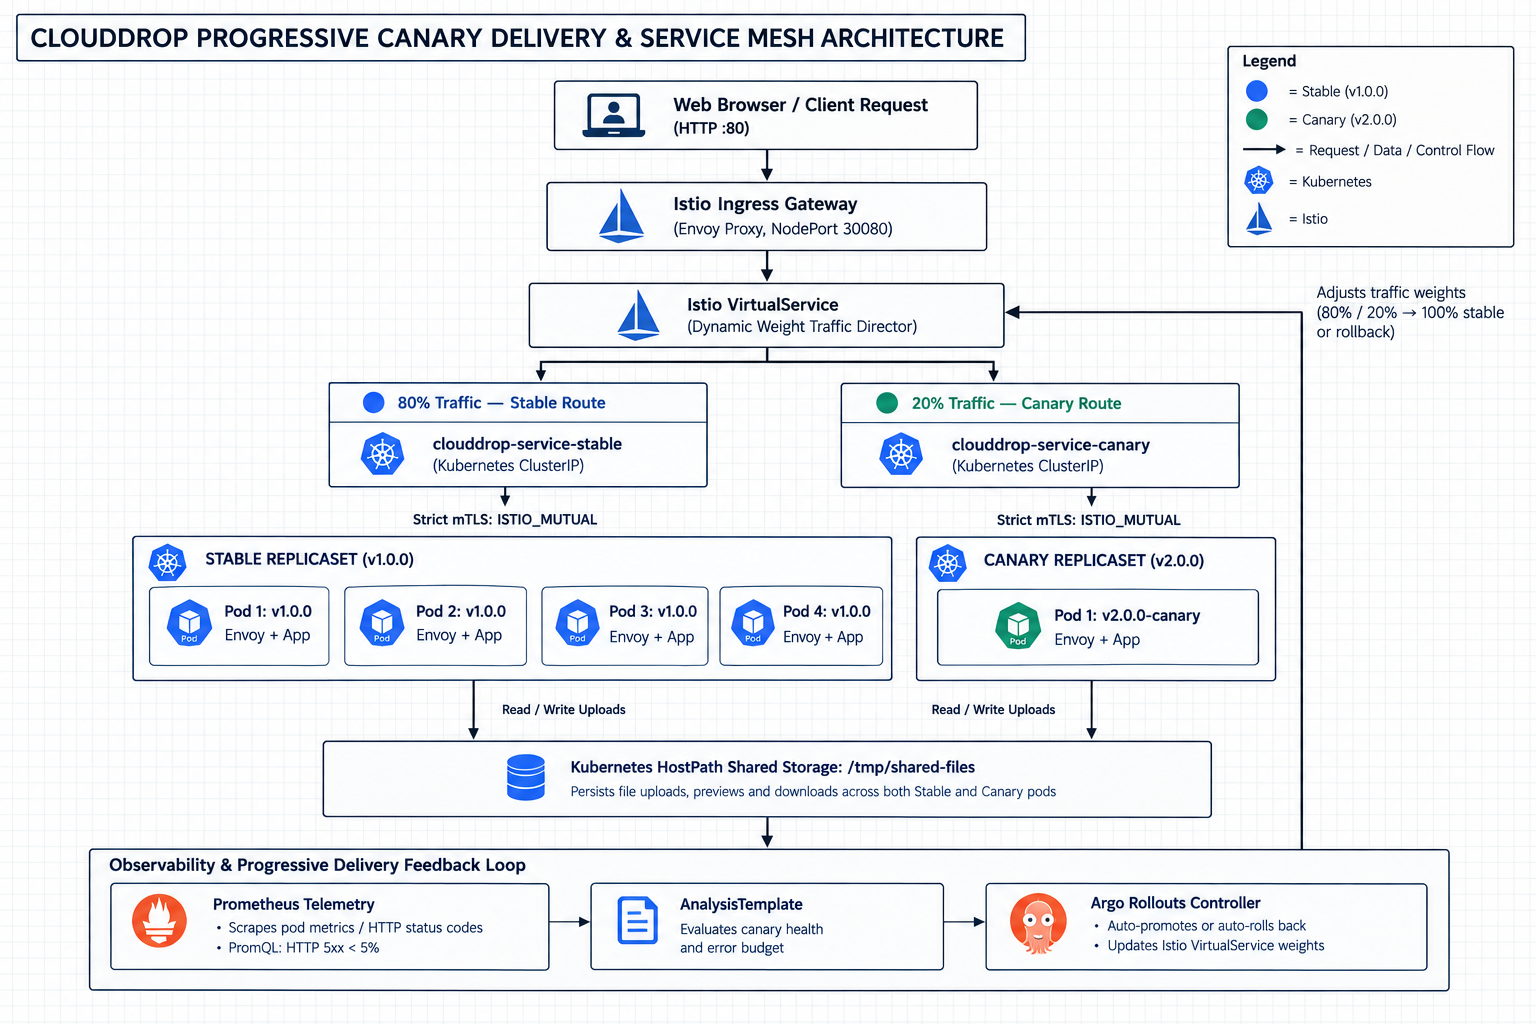
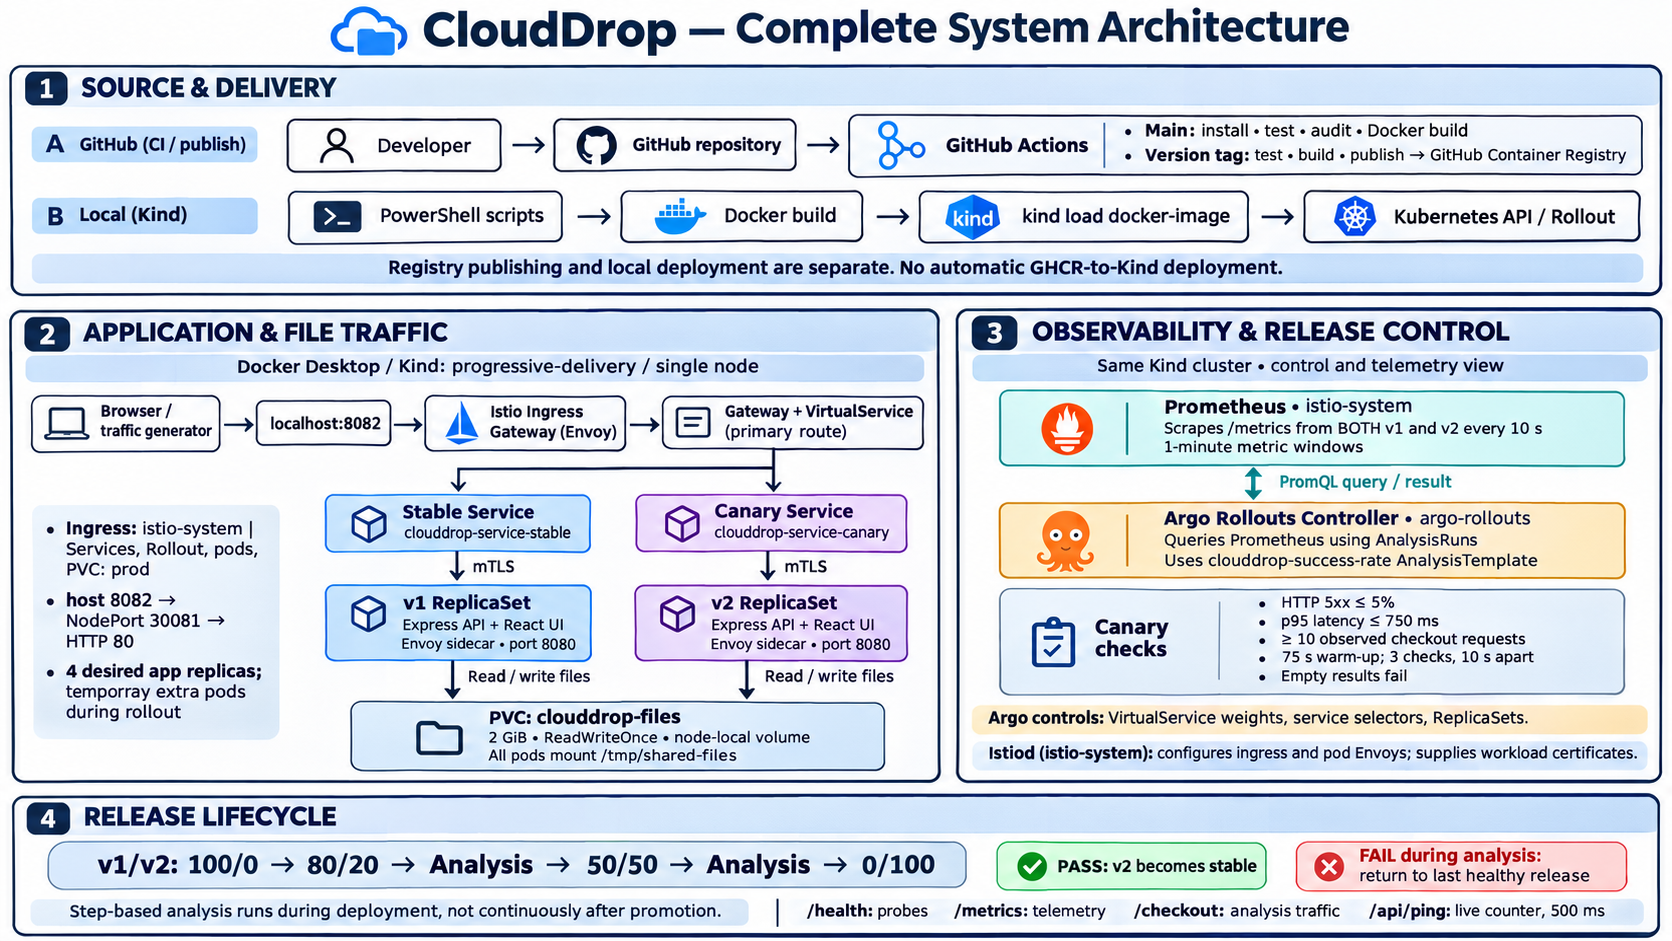
Update CloudDrop architecture diagram and implementation guide

diff --git a/docs/architecture.md b/docs/architecture.md
@@ -1,53 +1,104 @@
-# Progressive Delivery & Zero-Trust Service Mesh Architecture
+# CloudDrop System Architecture
 
-## 1. Executive Architecture Summary
+CloudDrop is a file-sharing application running in a single-node Kind cluster
+inside Docker Desktop. It combines a React interface, a Node.js/Express API,
+Istio traffic routing, Argo Rollouts, Prometheus analysis, and shared file storage.
 
-This project implements enterprise-grade **Progressive Canary Delivery** combined with **Zero-Trust Service Mesh Networking** on Kubernetes. It eliminates the blast radius of degraded software releases by replacing brittle standard `RollingUpdate` deployments with automated, telemetry-driven traffic gating and instantaneous rollbacks.
+![CloudDrop system architecture](images/architecture.png)
 
-![CloudDrop Progressive Canary Delivery & Service Mesh Architecture](images/architecture.png)
+## Request and file flow
 
-```
-                    [ Incoming User Traffic (Internet) ]
-                                    │
-                                    ▼
-                [ Istio Ingress Gateway (Envoy Proxy: Port 80) ]
-                                    │
-         ┌──────────────────────────┴──────────────────────────┐
-         │                                                     │
-         ▼ (Dynamic Weight: 80%)                               ▼ (Dynamic Weight: 20%)
-[ clouddrop-service-stable (v1.0.0) ]                   [ clouddrop-service-canary (v2.0.0) ]
-  • Envoy Sidecar (mTLS)                                • Envoy Sidecar (mTLS)
-  • 4 Pods Serving Prod Traffic                         • 1 Canary Pod under test
-         │                                                     │
-         └──────────────────────────┬──────────────────────────┘
-                                    ▼
-                      [ Prometheus Telemetry Engine ]
-                       • Scrapes /metrics every 5s
-                       • PromQL: HTTP 5xx error rate
-                                    │
-                                    ▼
-                     [ Argo Rollouts Controller ]
-                      • Evaluates AnalysisTemplate
-                      • IF Error Rate <= 5% -> Promote to 50% -> 100%
-                      • IF Error Rate > 5%  -> INSTANT ROLLBACK (<15s)
-```
+1. The browser opens `http://localhost:8082/`. Kind maps host port `8082` to
+   NodePort `30081`, which exposes the Istio ingress service on HTTP port `80`.
+2. The `clouddrop-gateway` and `clouddrop-virtualservice` resources in `prod`
+   configure ingress routing. The VirtualService splits requests between
+   `clouddrop-service-stable` and `clouddrop-service-canary` using Argo-managed
+   weights. These are configuration resources, not extra proxy processes.
+3. Each application pod has an Express container on port `8080` and an Envoy
+   sidecar. Express serves the React page and file APIs from the same image.
+   Istiod supplies proxy configuration and workload certificates. DestinationRules
+   configure `ISTIO_MUTUAL` for both services; this alone does not enforce a
+   cluster-wide strict inbound mTLS policy.
+4. Both releases mount the `clouddrop-files` PVC at `/tmp/shared-files`. It
+   requests `2Gi` with `ReadWriteOnce` access. Multiple replicas can share it
+   on the same Kind node. Uploads use a local persistent volume. This is a
+   local demonstration, not distributed storage for multiple nodes.
 
----
+## Release control and observability
 
-## 2. Core Architectural Pillars
+The controller in `argo-rollouts` watches the Rollout in `prod`, manages
+ReplicaSets and service selectors, creates AnalysisRuns, and changes the
+Istio VirtualService weights. Four application replicas are desired; extra
+pods can coexist temporarily during a canary release.
 
-### A. Dynamic Layer-7 Traffic Management (Istio Service Mesh)
-* Standard Kubernetes `Service` operates at Layer 4 (TCP) using simple kube-proxy round-robin, meaning traffic distribution cannot be controlled at precise percentages.
-* Istio utilizes **Envoy proxies** running as sidecars alongside every pod (`istio-injection=enabled`).
-* The **Istio VirtualService** splits traffic at exact granular weights (`weight: 80` vs `weight: 20`).
-* Argo Rollouts integrates directly with the VirtualService API, dynamically rewriting the routing weights without pod restarts or configuration downtime.
+Prometheus runs in `istio-system` and scrapes annotated pods every **10 seconds**.
+With Istio injection, the sidecar can expose a merged scrape endpoint containing
+the app metrics. HTTP telemetry comes from the application, not the file volume.
+Argo queries `prometheus-server.istio-system.svc.cluster.local:80`.
 
-### B. Mutual TLS (mTLS) Zero-Trust Security
-* Every microservice connection is secured with automatic **ISTIO_MUTUAL** TLS encryption via `DestinationRule`.
-* Certificates are provisioned, rotated, and managed dynamically by `istiod` using SPIFFE cryptographic identities.
+| Endpoint | Role |
+| --- | --- |
+| `/health` | Readiness/liveness probes and application version |
+| `/metrics` | Request counters and duration histograms |
+| `/checkout` | Synthetic canary error/latency analysis traffic |
+| `/api/ping` | Browser traffic samples every 500 ms |
+| `/api/meta` | Release metadata, refreshed every two seconds by the current built page |
+| `/api/upload-file` | Save an uploaded file to the shared volume |
+| `/api/file/:fileId` | File metadata for the preview |
+| `/download/raw/:fileId` | Download the stored file |
 
-### C. Telemetry-Driven Automated Analysis (Prometheus & Argo Rollouts)
-* Deployments are no longer subjective or time-dependent.
-* An `AnalysisTemplate` queries Prometheus every 10 seconds during the release:
-  $$\text{5xx Error Rate} = \frac{\sum(\text{rate}(\text{http\_requests\_total}\{\text{status\_code}=\sim\text{"5.*"}\}[1m]))}{\sum(\text{rate}(\text{http\_requests\_total}[1m]))}$$
-* If the error threshold exceeds **5%**, the release is automatically aborted, resetting traffic to 100% stable in $<15$ seconds without human intervention.
+### Canary sequence
+
+The demonstration deploys blue `v1.0.0` and purple `v2.0.0-canary`. The manifest's
+analysis arguments currently name v2 explicitly; a differently named future
+release must update those arguments to match its `APP_VERSION`.
+
+| Stage | v1 traffic | v2 traffic | Gate |
+| --- | ---: | ---: | --- |
+| Initial release | 100% | 0% | v1 ready |
+| First canary stage | 80% | 20% | 30-second pause, then analysis |
+| Second canary stage | 50% | 50% | 30-second pause, then analysis |
+| Successful promotion | 0% | 100% | v2 becomes the stable ReplicaSet |
+
+Each metric waits **75 seconds**, then takes **three measurements** at
+**10-second intervals**, using one-minute Prometheus windows:
+
+- The checkout HTTP 5xx fraction must be at most **5%**.
+- The error-rate query requires at least **10 observed checkout requests**.
+- Checkout p95 latency must be at most **750 ms**.
+- Empty query results fail. Invalid or inconclusive measurements cannot
+  satisfy the success conditions.
+
+`scripts/promote-v2.ps1` submits the image and runs checkout traffic through
+`scripts/generate-traffic.ps1` until completion or failure. Browser percentages
+are samples since the page loaded, rather than the configured routing weights.
+
+If analysis fails, Argo aborts the candidate and returns traffic to the last
+healthy release. During v1 → v2, this is v1. After successful v2 promotion,
+a later failed candidate would return to v2. Rollback timing depends on the
+analysis schedule and reconciliation; there is no guaranteed sub-15-second
+rollback. Step-based analysis does not keep triggering rollbacks after promotion.
+
+## Source, build, and deployment paths
+
+| Path | Implemented behavior |
+| --- | --- |
+| Push app changes to `main` | GitHub Actions installs dependencies, runs backend tests and the dependency audit, then builds the image |
+| Push a `v*.*.*` tag | The release workflow tests, builds, and publishes `ghcr.io/jeffrin2005/progressive-delivery-service-mesh:<tag>` |
+| Local platform setup | `scripts/setup.ps1` configures Kind, Istio, Argo Rollouts and Prometheus, builds and loads images, and applies storage and app manifests |
+| Local v2 demonstration | Build an image, run `kind load docker-image`, then run `scripts/promote-v2.ps1` |
+
+Publishing to GitHub Container Registry does **not** automatically deploy into
+the local Kind cluster. The local deployment path uses PowerShell scripts and
+the Kubernetes API. No Argo CD controller is configured in this repository.
+
+## Verified local demonstration
+
+The recorded run passed both analysis stages and promoted v2, with four
+application pods reporting `2/2 Running`. A separate no-data AnalysisRun
+failed as intended. See [the measurements](evidence/rollout-verification.json),
+[blue v1](evidence/clouddrop-v1.jpg), and [purple v2](evidence/clouddrop-v2.jpg).
+
+The architecture image was generated using the built-in image-generation tool.
+The [generation prompt](images/architecture-prompt.txt) is saved alongside it.
+This document records the exact implementation details for review.

diff --git a/README.md b/README.md
@@ -8,16 +8,23 @@
 In enterprise architectures (fintech, e-commerce, banking), standard Kubernetes `RollingUpdate` deployments are dangerous: a subtle bug can pass basic readiness checks and replace 100% of healthy pods, causing a full production outage.
 
 This repository demonstrates an **end-to-end Progressive Delivery & SRE solution**:
-* **Layer 7 Traffic Splitting:** Dynamic percentage-based routing (10% ➔ 30% ➔ 60% ➔ 100%) via **Istio Envoy proxies**.
+* **Layer 7 Traffic Splitting:** Dynamic canary routing (20% ➔ 50% ➔ 100%) via **Istio Envoy proxies**.
 * **Automated SLO Analysis:** Real-time **Prometheus PromQL queries** evaluating HTTP 5xx error rates and latency before advancing traffic.
-* **Instant Automated Rollback:** Automated rollbacks in `<15 seconds` without human intervention if error thresholds breach SLO limits.
-* **Zero-Trust Security:** Automatic **mTLS encryption** between microservice pods using Istio `DestinationRules`.
+* **Analysis-Based Rollback:** Failed canary analysis returns traffic to the last healthy release. Timing follows the configured measurement schedule and controller reconciliation.
+* **Service Mesh mTLS:** Istio `DestinationRules` configure **ISTIO_MUTUAL** for stable and canary service connections.
 
 ---
 
 ## 📐 System Architecture
 
-![CloudDrop Progressive Canary Delivery & Service Mesh Architecture](docs/images/architecture.png)
+![CloudDrop system architecture: delivery, traffic, storage, monitoring and rollout control](docs/images/architecture.png)
+
+The diagram follows the implemented local system: Docker Desktop and Kind,
+Istio ingress on `localhost:8082`, blue/purple application releases, shared PVC
+storage, and the Prometheus/Argo analysis loop. It also separates GitHub Actions
+image publishing from the script-driven local deployment path.
+
+[Read the full architecture and release flow](docs/architecture.md).
 
 ---
 
@@ -30,9 +37,9 @@ Progressive Delivery devops2/
 │   └── fileshare/                 # CloudDrop File Sharing Microservice
 │       ├── backend/               # Node.js Express API with /metrics & shared volume
 │       ├── frontend/              # React 18 Telemetry Dashboard & Upload UI
-│       ├── Dockerfile             # Multi-stage container build
+│       ├── Dockerfile             # Node.js container with bundled frontend
 │       └── manifests/             # Kubernetes Rollout, VirtualService, Services & mTLS
-├── infrastructure/                # Local & Cloud Cluster Configurations (Kind / EKS)
+├── infrastructure/                # Local Kind cluster configuration
 ├── platform/                      # Core Mesh & Observability (Istio, Prometheus, Argo Rollouts)
 ├── scripts/                       # Chaos Engineering & Traffic Simulation Scripts
 └── docs/                          # Architecture Diagrams & Documentation
